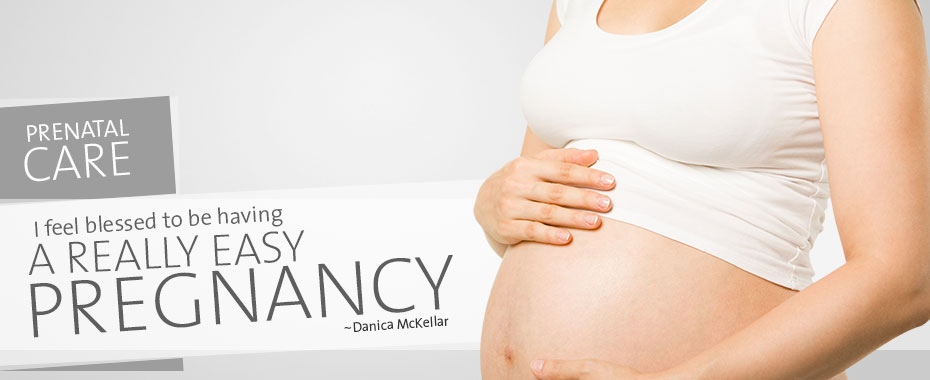
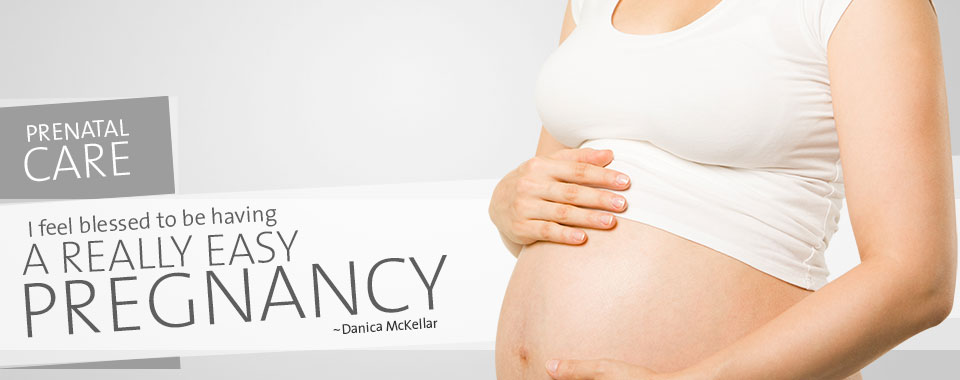
done

diff --git a/HKWeb/view/css/health-nutrition.css b/HKWeb/view/css/health-nutrition.css
@@ -9,7 +9,7 @@
 			
 
 .container			{ 
-					width:930px; 
+					width:960px;
 					clear:both; 
 					margin:0 auto;
 					}
@@ -107,7 +107,7 @@
 
 #cquery-ALL-5				{ 
 							position:relative; 
-							width:930px;
+							width:960px;
 							}
 							
 #cquery-ALL-5 ul 			{ 
@@ -130,7 +130,7 @@
 							
 
 .controllButton-ALL-5			{ 
-								margin:350px 0px 0px 850px;  
+								margin:350px 0px 0px 870px;
 								position:absolute; 
 								z-index:10000; 
 								height:50px; 
@@ -187,7 +187,7 @@
 									width:30px; 
 									height:363px; 
 									background:#555;  
-									margin:0px 0px 0px 930px; 
+									margin:0px 0px 0px 960px;
 									cursor:pointer; 
 									text-decoration:none; 
 									top:0px;
